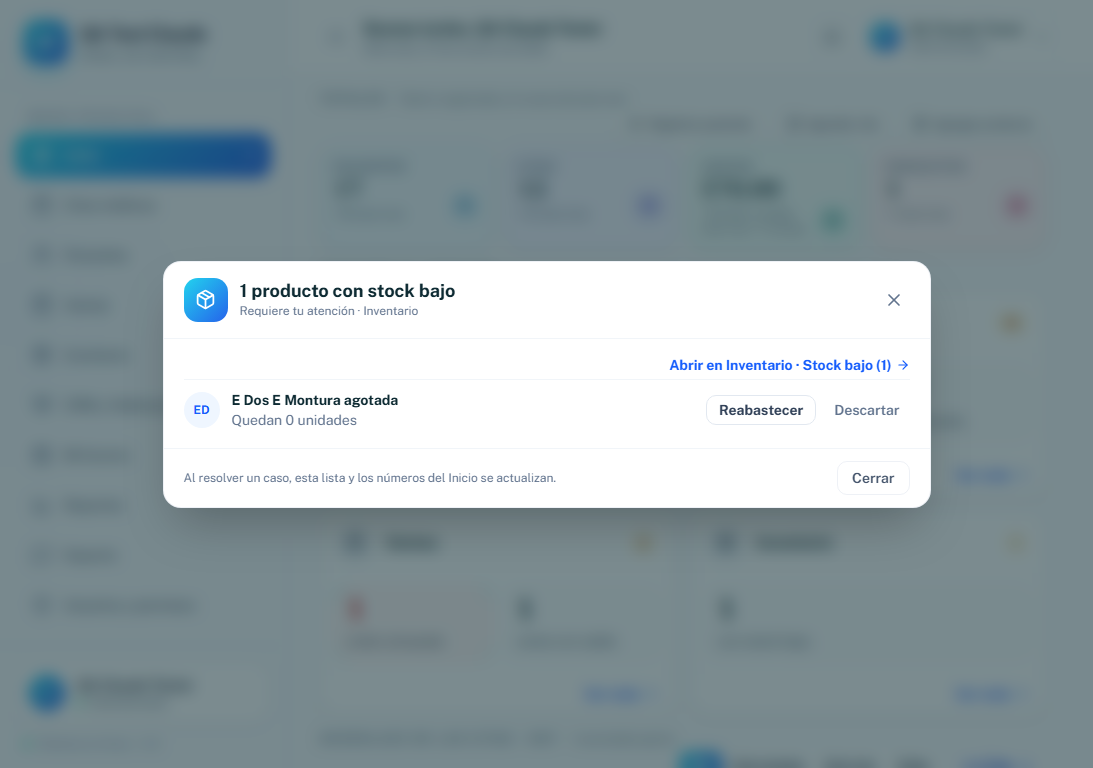
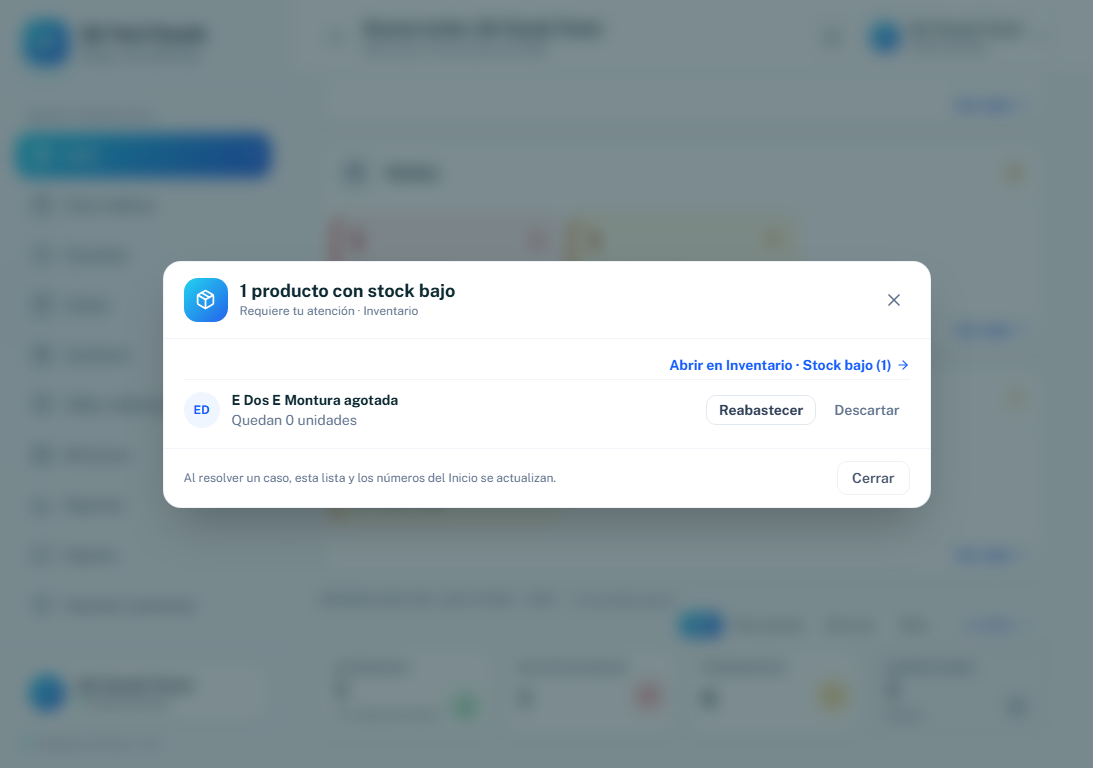
test(ronda2b): comprobación en vivo (cancelar desde el portal, descartar aviso, aviso interno), tarjetitas a un tercio, capturas y estado

diff --git a/e2e/ronda2b-vivo.spec.js b/e2e/ronda2b-vivo.spec.js
@@ -1,0 +1,148 @@
+// Ronda 2b — lo que se comprueba EN VIVO con la pantalla real (óptica de pruebas, que escribe y limpia lo suyo):
+//   1. El paciente cancela su cita desde el portal: la ventana pide el motivo y queda guardado, con el paciente como autor.
+//   2. «Descartar» un aviso de «Requiere tu atención»: pide el motivo, saca el caso, queda registrado (quién y por qué) y «Volver a mostrar» lo trae de vuelta.
+//   3. Un aviso interno del administrador se ve en el Inicio de su destinatario, resaltado como no leído.
+import { test, expect } from '@playwright/test'
+import pg from 'pg'
+import { iniciarSesion, escribirSecreto, prepararAvisosInicio, SLUG_PRUEBAS } from './ayudas.js'
+import { limpiarSoporteDePruebas } from './limpiar-soporte.js'
+
+const NOMBRE_PORTAL = 'E Dos E Portal Auditoria'
+const bd = async (fn) => { const c = new pg.Client(); await c.connect(); try { return await fn(c) } finally { await c.end() } }
+const q = (t, p) => bd(async (c) => (await c.query(t, p)).rows)
+const diaHabil = (dias) => {
+  const d = new Date()
+  d.setDate(d.getDate() + dias)
+  while (d.getDay() === 0 || d.getDay() === 6) d.setDate(d.getDate() + 1)
+  return `${d.getFullYear()}-${String(d.getMonth() + 1).padStart(2, '0')}-${String(d.getDate()).padStart(2, '0')}`
+}
+
+test('Portal: el paciente cancela su cita y la ventana le pide el motivo, que queda guardado con él como autor', async ({ page }) => {
+  test.setTimeout(180_000)
+  await page.setViewportSize({ width: 1366, height: 768 })
+  const optica = (await q('select id, settings from opticas where slug = $1', [SLUG_PRUEBAS]))[0]
+  const paciente = (await q('select id, nombre, cedula from pacientes_base where optica_id = $1 and nombre = $2', [optica.id, NOMBRE_PORTAL]))[0]
+  await q('delete from citas_base where paciente_id = $1', [paciente.id])
+  const ajustes = optica.settings || {}
+  let citaId = null
+  try {
+    // El botón «Cancelar cita» del portal solo sale si la óptica deja reagendar/cancelar al paciente.
+    await q("update opticas set settings = coalesce(settings, '{}'::jsonb) || '{\"permitirReagendarPaciente\": true, \"horasAntesReagendar\": 2}'::jsonb where id = $1", [optica.id])
+    citaId = (await q(`insert into citas_base (optica_id, paciente_id, paciente, cedula, fecha, hora, estado, origen, duracion_minutos, motivo)
+      values ($1, $2, $3, $4, $5, '10:00 AM', 'Pendiente', 'paciente', 40, 'Consulta General') returning id`, [optica.id, paciente.id, paciente.nombre, paciente.cedula, diaHabil(10)]))[0].id
+
+    await page.goto(`/?optica=${SLUG_PRUEBAS}`)
+    await page.getByRole('button', { name: 'Iniciar sesión' }).first().click()
+    await escribirSecreto(page, page.getByPlaceholder('Cédula o nombre de usuario'), process.env.E2E_PORTAL_CEDULA)
+    await escribirSecreto(page, page.getByPlaceholder('Tu contraseña'), process.env.E2E_PORTAL_CLAVE)
+    await page.getByRole('button', { name: 'Entrar', exact: true }).click()
+    await expect(page.getByLabel('Cargando tu resumen')).toHaveCount(0, { timeout: 30_000 })
+    await page.getByRole('navigation', { name: 'Menú del portal' }).filter({ visible: true }).getByRole('button', { name: 'Mis citas', exact: true }).click()
+    await page.getByRole('button', { name: 'Cancelar cita' }).first().click()
+
+    const ventana = page.getByRole('dialog', { name: '¿Cancelar esta cita?' })
+    await expect(ventana.getByRole('radio')).toHaveCount(3) // No puedo asistir · Ya no necesito la cita · Otro (MOTIVOS_PACIENTE)
+    const confirmar = ventana.getByRole('button', { name: /Sí, cancelar|Cancelar mi cita|Cancelar cita/ }).last()
+    await expect(confirmar).toBeDisabled() // sin motivo no se puede cancelar
+    await ventana.getByRole('radio', { name: 'No puedo asistir' }).click()
+    await ventana.getByLabel(/Detalle/).fill('E2E: tengo un viaje')
+    await page.screenshot({ path: 'docs/ronda2-capturas/portal-cancelar-con-motivo.png' })
+    await expect(confirmar).toBeEnabled()
+    await confirmar.click()
+    await expect(page.getByRole('dialog', { name: '¿Cancelar esta cita?' })).toHaveCount(0, { timeout: 20_000 })
+
+    const cita = (await q('select estado from citas_base where id = $1', [citaId]))[0]
+    expect(cita.estado).toBe('Cancelada')
+    const evento = (await q("select actor_tipo, datos from citas_eventos where cita_id = $1 and tipo = 'cancelada'", [citaId]))[0]
+    expect(evento.actor_tipo).toBe('paciente')
+    expect(evento.datos.motivo).toMatch(/no puede asistir|No puedo asistir/i)
+    expect(evento.datos.detalle).toBe('E2E: tengo un viaje')
+  } finally {
+    await q('delete from citas_base where paciente_id = $1', [paciente.id])
+    await q('update opticas set settings = $2::jsonb where id = $1', [optica.id, JSON.stringify(ajustes)])
+  }
+})
+
+test('Inicio: «Descartar» un aviso pide el motivo, lo saca de la lista, queda registrado y «Volver a mostrar» lo restaura', async ({ page }) => {
+  test.setTimeout(180_000)
+  await page.setViewportSize({ width: 1093, height: 768 })
+  await prepararAvisosInicio('E2E')
+  const optica = (await q('select id from opticas where slug = $1', [SLUG_PRUEBAS]))[0]
+  await q('delete from avisos_descartados where optica_id = $1', [optica.id])
+  try {
+    await iniciarSesion(page, 'ADMIN', 'E2E')
+    const area = page.getByRole('region', { name: 'Requiere tu atención: Inventario' })
+    await expect(area).toBeVisible({ timeout: 20_000 })
+    await area.getByRole('button', { name: /con stock bajo$/ }).click()
+    const ventana = page.getByRole('dialog')
+    const antes = await ventana.getByRole('button', { name: /^Descartar el aviso de / }).count()
+    expect(antes).toBeGreaterThan(0)
+    const boton = ventana.getByRole('button', { name: /^Descartar el aviso de / }).first()
+    const nombre = (await boton.getAttribute('aria-label')).replace('Descartar el aviso de ', '')
+    await boton.click()
+    const panel = ventana.getByRole('group', { name: `Descartar el aviso de ${nombre}` })
+    await expect(panel.getByRole('button', { name: 'Descartar el aviso' })).toBeDisabled() // sin motivo no se descarta
+    await panel.getByRole('radio', { name: 'No se repondrá' }).click()
+    await panel.getByLabel(/Detalle/).fill('E2E: producto descontinuado')
+    await page.screenshot({ path: 'docs/ronda2-capturas/descartar-aviso.png' })
+    await panel.getByRole('button', { name: 'Descartar el aviso' }).click()
+    await expect(page.getByText(`Aviso de ${nombre} descartado.`)).toBeVisible({ timeout: 15_000 })
+
+    // Queda registrado: quién, por qué y cuándo.
+    const fila = (await q("select tipo, motivo, detalle, descartado_nombre, descartado_por from avisos_descartados where optica_id = $1", [optica.id]))[0]
+    expect(fila.tipo).toBe('inventario:stock_bajo')
+    expect(fila.motivo).toBe('No se repondrá')
+    expect(fila.detalle).toBe('E2E: producto descontinuado')
+    expect(fila.descartado_nombre.length).toBeGreaterThan(0)
+    expect(fila.descartado_por).toBeTruthy()
+
+    // Sale de la lista y queda en «Descartados», desde donde se vuelve a mostrar.
+    const lista = page.getByRole('dialog')
+    if (await lista.count()) {
+      await expect(lista.getByRole('button', { name: `Descartar el aviso de ${nombre}` })).toHaveCount(0)
+      await lista.getByText(/^Descartados \(\d+\)/).click()
+      await lista.getByRole('button', { name: `Volver a mostrar el aviso de ${nombre}` }).click()
+      await expect(page.getByText(`El aviso de ${nombre} vuelve a mostrarse.`)).toBeVisible({ timeout: 15_000 })
+    }
+    expect((await q('select count(*)::int n from avisos_descartados where optica_id = $1', [optica.id]))[0].n).toBe(0)
+  } finally {
+    await q('delete from avisos_descartados where optica_id = $1', [optica.id])
+  }
+})
+
+test.describe('Aviso interno en el Inicio de su destinatario', () => {
+  test.beforeAll(limpiarSoporteDePruebas)
+  test.afterAll(limpiarSoporteDePruebas)
+
+  test('el administrador publica un aviso para Optómetra y Paula lo ve en su Inicio, resaltado como no leído', async ({ browser }) => {
+    test.setTimeout(240_000)
+    const titulo = `E2E Aviso ${Date.now().toString(36)}`
+    const ctxAdmin = await browser.newContext({ viewport: { width: 1093, height: 768 } })
+    const admin = await ctxAdmin.newPage()
+    await iniciarSesion(admin, 'ADMIN', 'E2E')
+    await admin.getByRole('button', { name: 'Soporte', exact: true }).first().click()
+    await admin.getByRole('tab', { name: /^Avisos/ }).click()
+    await admin.getByRole('button', { name: /Nuevo aviso/ }).first().click()
+    const v = admin.getByRole('dialog', { name: 'Nuevo aviso' })
+    await v.getByLabel('Título').fill(titulo)
+    await v.getByLabel('Mensaje').fill('E2E: reunión de optómetras el lunes a las 8.')
+    await v.getByLabel('Para').selectOption('rol')
+    await v.getByLabel('Rol').selectOption({ label: 'Optómetra' })
+    await v.getByRole('button', { name: 'Publicar aviso' }).click()
+    await expect(admin.getByRole('dialog', { name: 'Nuevo aviso' })).toHaveCount(0, { timeout: 20_000 })
+    await ctxAdmin.close()
+
+    const ctxPaula = await browser.newContext({ viewport: { width: 1093, height: 768 } })
+    const paula = await ctxPaula.newPage()
+    await iniciarSesion(paula, 'OPTOMETRA', 'E2E')
+    const avisos = paula.locator('main').getByRole('region', { name: 'Avisos' })
+    await expect(avisos).toBeVisible({ timeout: 30_000 })
+    const suyo = avisos.getByRole('listitem').filter({ hasText: titulo })
+    await expect(suyo).toBeVisible()
+    await expect(suyo.getByRole('button', { name: 'Leído' })).toBeVisible() // lo no leído lleva su botón y su resalte
+    await paula.screenshot({ path: 'docs/ronda2-capturas/inicio-optometra-aviso-interno.png' })
+    await suyo.getByRole('button', { name: 'Leído' }).click()
+    await expect(suyo.getByRole('button', { name: 'Leído' })).toHaveCount(0, { timeout: 15_000 })
+    await ctxPaula.close()
+  })
+})

diff --git a/src/componentes/RequiereAtencionPorArea.jsx b/src/componentes/RequiereAtencionPorArea.jsx
@@ -198,7 +198,7 @@ export default function RequiereAtencionPorArea({ bloques, columnas = 2, compact
                   : <span className="ml-auto rounded-full bg-emerald-50 px-2.5 py-0.5 text-sm font-bold text-emerald-700">Todo en orden</span>}
               </div>
               {visibles.length > 0 ? (
-                <ul className={"grid flex-1 gap-2.5 p-3 " + (visibles.length === 1 ? "grid-cols-1" : visibles.length === 2 ? "grid-cols-2" : "grid-cols-3")}>
+                <ul className={"grid flex-1 gap-2.5 p-3 " + (columnas === 3 ? (visibles.length === 1 ? "grid-cols-1" : visibles.length === 2 ? "grid-cols-2" : "grid-cols-3") : "grid-cols-1 sm:grid-cols-3")}>
                   {visibles.map((f) => {
                     const tono = TONOS[f.tono] || TONOS.pendiente
                     return (

diff --git a/docs/estado-actual.md b/docs/estado-actual.md
@@ -61,6 +61,8 @@
 - **Límites conocidos:** el borrador de la ficha vive en el navegador de quien atendió (`localStorage`), así que la cita nueva lo hereda solo en el mismo navegador (un borrador en el servidor sería una ronda aparte). Las citas muy antiguas, anteriores a la migración, no tienen línea de tiempo (se muestra «Sin registro»).
 - **Pruebas:** Vitest (la suite completa, ver el resumen de la entrega); Playwright de lo tocado, `--workers=1`: Citas, Inicio, avisos, Reportes, CRM, portal, perfil, sesión. Los specs viejos se actualizaron al diseño nuevo (vista Lista/Calendario con `elegirVista`, tarjetitas, «No efectuada», «Contactar al paciente», cancelar con motivo). Capturas a 1093 px en `docs/ronda2-capturas/` (`E2E_CAPTURAS=1 npx playwright test e2e/ronda2-capturas.spec.js`).
 
+**Ronda 2b (21 oct., correcciones tras la revisión de Diego en localhost; sin publicar):** «Calendario ▾» compacto (sin hueco reservado; la opción activa se marca dentro del menú); «Ver perfil» en la fila de acciones del detalle de la cita, en todos los estados; **reagendar no es cancelar** (la misma cita sigue Pendiente con «Reagendada desde…», sin evento de cancelación, fuera de «Contactar al paciente»: `scripts/historial/verificar-reagendar.mjs` contra la base real, personal y portal, revierte; más una prueba unitaria); tarjetitas de «Requiere tu atención» con **color por urgencia** (rojo suave = urgente: atenciones abiertas, órdenes atrasadas, solicitudes de eliminación; ámbar = pendiente; azul = informativo: `TONOS` en `RequiereAtencionPorArea.jsx`), número de 28 px en Sora y leyenda de 14 px en una línea (cada área ocupa todo el ancho hasta 1536 px); los **Totales** usan el mismo criterio (azul informativo con franja, borde e ícono; ya no un tinte distinto por tarjeta). Comprobado en vivo con la pantalla real (`e2e/ronda2b-vivo.spec.js`): cancelar con motivo desde el portal, «Descartar» un aviso (queda registrado y «Volver a mostrar» lo restaura) y un aviso interno resaltado en el Inicio de su destinatario.
+
 ## 19 oct. 2026 (noche, 4) — limpieza del proyecto
 - **Qué se hizo (un solo commit):** se eliminaron ~68 MB de capturas de rondas (`docs/portal-capturas`, `portal-detalles`, `portal-v2-capturas`, `portal-comparacion`, `ficha-cinco-pasos`, `ficha-coherencia`, `inicio-capturas`, `inicio-superadmin-capturas`, `ficha-capturas`, `propuesta-ficha`, `ficha-cinco-pasos-propuesta`), `src/assets/hero.png`, 6 archivos de `src` que nadie importaba (`ColaVentas`, `TendenciaGraduacion`, `GraficaGraduacion`, `RequiereAtencion`, `utilidades/graficos.js`, `utilidades/recetaTexto.js`) y los scripts de arreglos de datos de un solo uso y de capturas (`corregir-*`, `capturas-*`, `comparar-portal`, `lado-a-lado-portal`, `revision-adaptable`, etc.).
 - **Dónde quedó lo demás:** las revisiones, `roadmap-artifact.html` y `SYSTEM_MODERNIZATION_ROADMAP.md` están en `docs/historial/`; los ensayos y verificaciones de migraciones, en `scripts/historial/`; cinco capturas finales, en `docs/figuras-tesis/`. Se conservan completos `docs/portal-propuesta/`, `docs/maquetas/`, `public/capturas/` y las mediciones de Nielsen.
